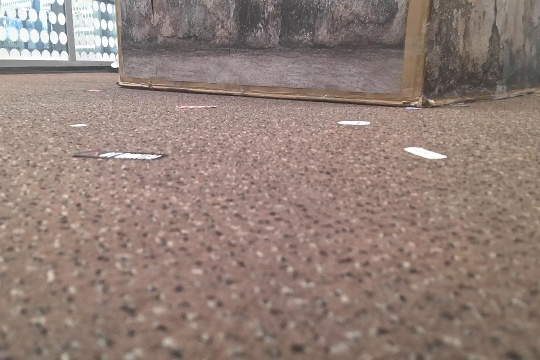
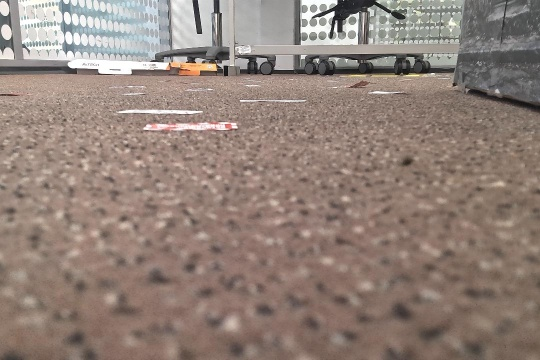
fix(mission): fix telemetry route rendering on MissionPage

diff --git a/frontend/src/pages/MissionPage/RouteVisualizer.jsx b/frontend/src/pages/MissionPage/RouteVisualizer.jsx
@@ -139,7 +139,7 @@ export default function RouteVisualizer({ coordinates = [], buildings = [], curr
             {realPoints.length > 0 ? (
                 <group 
                   position={realPoints[realPoints.length - 1]} 
-                  rotation={[0, (realTrajectory[realTrajectory.length - 1]?.yaw || 0) * Math.PI / 180, 0]}
+                  rotation={[0, (-(realTrajectory[realTrajectory.length - 1]?.yaw || 0) + 90) * Math.PI / 180, 0]}
                 >
                     {/* Sleek Drone Ring */}
                     <mesh rotation={[Math.PI/2, 0, 0]}>
@@ -154,7 +154,7 @@ export default function RouteVisualizer({ coordinates = [], buildings = [], curr
             ) : points[currentStep] && (
                 <group 
                   position={points[currentStep]} 
-                  rotation={[0, (coordinates[currentStep]?.yaw || 0) * Math.PI / 180, 0]}
+                  rotation={[0, (-(coordinates[currentStep]?.yaw || 0) + 90) * Math.PI / 180, 0]}
                 >
                     {/* Sleek Drone Ring */}
                     <mesh rotation={[Math.PI/2, 0, 0]}>

diff --git a/frontend/src/pages/MissionPage/MissionPage.jsx b/frontend/src/pages/MissionPage/MissionPage.jsx
@@ -24,7 +24,7 @@ export default function MissionPage({ onStartFlight, loadingMessage, infoMessage
   const [isThinking, setIsThinking] = useState(false);
   const [isExecuting, setIsExecuting] = useState(false);
   const [currentStep, setCurrentStep] = useState(0);
-  const [droneIp, setDroneIp] = useState('127.0.0.1');
+  const [droneIp, setDroneIp] = useState('10.132.236.186');
   const [realTrajectory, setRealTrajectory] = useState([]);
   const messagesEndRef = useRef(null);
   const textareaRef = useRef(null);

diff --git a/pioneer_mcp/src/drone_runtime.py b/pioneer_mcp/src/drone_runtime.py
@@ -510,6 +510,13 @@ class DroneRuntime:
         if not self.__conn or not self.__streamer:
             return None
 
+        # Ставим на паузу фотограмметрию в telemetry_service
+        try:
+            async with aiohttp.ClientSession() as session:
+                await session.post("http://localhost:8002/photogrammetry/pause", timeout=2)
+        except Exception as e:
+            _lg.warning(f"Failed to pause photogrammetry: {e}")
+
         angles = [30, 0, -40, -80]
         frames = []
         for angle in angles:
@@ -540,6 +547,17 @@ class DroneRuntime:
         combined = np.vstack((top, bottom))
 
         _, buffer = cv2.imencode('.jpg', combined)
+
+        # Возвращаем камеру в базовое положение
+        await self.cmd_set_camera_angle(-20)
+
+        # Возобновляем фотограмметрию
+        try:
+            async with aiohttp.ClientSession() as session:
+                await session.post("http://localhost:8002/photogrammetry/resume", timeout=2)
+        except Exception as e:
+            _lg.warning(f"Failed to resume photogrammetry: {e}")
+
         return buffer.tobytes()
 
 
@@ -677,3 +695,49 @@ class DroneRuntime:
             }, ensure_ascii=False)
         except Exception as ex:
             return json.dumps({"error": str(ex)}, ensure_ascii=False)
+
+    # ---- фотограмметрия (управление) ----
+
+    async def cmd_start_photogrammetry(self, project_id: str) -> str:
+        if not self.__conn:
+            return self.__err("Дрон не подключён")
+        try:
+            drone_ip = self.__DEFAULT_TCP.split(':')[0]
+            url = f"http://localhost:8002/photogrammetry/start"
+            params = {"project_id": project_id, "ip": drone_ip}
+            
+            async with aiohttp.ClientSession() as session:
+                async with session.post(url, params=params, timeout=5) as response:
+                    response_text = await response.text()
+                    try:
+                        response_data = json.loads(response_text)
+                    except Exception:
+                        response_data = {}
+                    
+                    if response.status == 200 and response_data.get("status") == "success":
+                        return self.__ok(f"Сбор фотограмметрии начат для проекта {project_id}")
+                    else:
+                        error_msg = response_data.get("message", "Неизвестная ошибка")
+                        return self.__err(f"Ошибка сервера {response.status}: {error_msg}")
+        except Exception as ex:
+            return self.__err(f"Ошибка HTTP запроса: {str(ex)}")
+
+    async def cmd_stop_photogrammetry(self) -> str:
+        try:
+            url = f"http://localhost:8002/photogrammetry/stop"
+            
+            async with aiohttp.ClientSession() as session:
+                async with session.post(url, timeout=5) as response:
+                    response_text = await response.text()
+                    try:
+                        response_data = json.loads(response_text)
+                    except Exception:
+                        response_data = {}
+                    
+                    if response.status == 200 and response_data.get("status") == "success":
+                        return self.__ok("Сбор фотограмметрии остановлен")
+                    else:
+                        error_msg = response_data.get("message", "Неизвестная ошибка")
+                        return self.__err(f"Ошибка сервера {response.status}: {error_msg}")
+        except Exception as ex:
+            return self.__err(f"Ошибка HTTP запроса: {str(ex)}")

diff --git a/pioneer_mcp/src/server.py b/pioneer_mcp/src/server.py
@@ -121,8 +121,8 @@ async def set_yaw(angle_deg: float) -> str:
 # --- камера ---
 
 @mcp.tool()
-async def get_single_camera_frame() -> str:
-    """Получить один кадр с камеры дрона без изменения угла наклона (возвращает путь к локально сохраненной картинке)."""
+async def get_single_camera_frame() -> Image:
+    """Получить один кадр с камеры дрона без изменения угла наклона (возвращает изображение)."""
     data = _r.get_frame_jpeg()
     if not data:
         return "Ошибка: Не удалось получить кадр с камеры"
@@ -147,11 +147,11 @@ async def get_single_camera_frame() -> str:
     with open(latest_path, "wb") as f:
         f.write(data)
         
-    return latest_path
+    return Image(data=data, format="jpeg")
 
 @mcp.tool()
-async def get_opt_camera_frame() -> str:
-    """Получить кадр с нижней камеры оптического потока (OPT). (возвращает путь к локально сохраненной картинке)"""
+async def get_opt_camera_frame() -> Image:
+    """Получить кадр с нижней камеры оптического потока (OPT). (возвращает изображение)"""
     data = _r.get_opt_frame_jpeg()
     if not data:
         return "Ошибка: Не удалось получить кадр с камеры"
@@ -176,11 +176,11 @@ async def get_opt_camera_frame() -> str:
     with open(latest_path, "wb") as f:
         f.write(data)
         
-    return latest_path
+    return Image(data=data, format="jpeg")
 
 @mcp.tool()
-async def get_multiframe() -> str:
-    """Получить композитное изображение из 4 кадров (+30, 0, -40, -80 градусов) для глобального обзора."""
+async def get_multiframe() -> Image:
+    """Получить композитное изображение из 4 кадров (+30, 0, -40, -80 градусов) для глобального обзора (возвращает само изображение)."""
     data = await _r.cmd_get_multiframe_jpeg()
     if not data:
         return "Ошибка: Не удалось собрать композитный кадр"
@@ -205,7 +205,7 @@ async def get_multiframe() -> str:
     with open(latest_path, "wb") as f:
         f.write(data)
         
-    return latest_path
+    return Image(data=data, format="jpeg")
 
 # --- сервопривод / reboot ---
 
@@ -245,6 +245,16 @@ async def get_sensors() -> str:
 async def get_flight_state() -> str:
     """Получить состояние полёта дрона."""
     return _r.res_flight_state()
+
+@mcp.tool()
+async def start_photogrammetry(project_id: str) -> str:
+    """Начать непрерывный сбор фотограмметрии. Кадры будут сохраняться в датасет для указанного проекта."""
+    return await _r.cmd_start_photogrammetry(project_id)
+
+@mcp.tool()
+async def stop_photogrammetry() -> str:
+    """Остановить фоновый сбор фотограмметрии."""
+    return await _r.cmd_stop_photogrammetry()
 
 
 # --- resources ---

diff --git a/telemetry_service/main.py b/telemetry_service/main.py
@@ -22,6 +22,43 @@ app.add_middleware(
 
 PROJECT_ROOT = os.path.abspath(os.path.join(os.path.dirname(__file__), ".."))
 
+# Глобальный флаг для паузы фотограмметрии (синхронизация с мультифреймом)
+is_photogrammetry_paused = False
+
+@app.post("/photogrammetry/pause")
+async def pause_photogrammetry():
+    global is_photogrammetry_paused
+    is_photogrammetry_paused = True
+    return {"status": "success", "message": "Photogrammetry paused"}
+
+@app.post("/photogrammetry/resume")
+async def resume_photogrammetry():
+    global is_photogrammetry_paused
+    is_photogrammetry_paused = False
+    return {"status": "success", "message": "Photogrammetry resumed"}
+
+# Глобальная переменная для хранения таски фотограмметрии
+active_photo_task = None
+
+@app.post("/photogrammetry/start")
+async def start_photogrammetry_api(project_id: str = Query(...), ip: str = Query(...)):
+    global active_photo_task
+    if active_photo_task is not None and not active_photo_task.done():
+        return {"status": "error", "message": "Photogrammetry is already running"}
+    
+    active_photo_task = asyncio.create_task(fetch_photo_loop(ip, project_id))
+    return {"status": "success", "message": "Photogrammetry started"}
+
+@app.post("/photogrammetry/stop")
+async def stop_photogrammetry_api():
+    global active_photo_task
+    if active_photo_task is not None:
+        active_photo_task.cancel()
+        active_photo_task = None
+        return {"status": "success", "message": "Photogrammetry stopped"}
+    return {"status": "success", "message": "Photogrammetry was not running"}
+
+
 @app.post("/emergency_stop")
 async def emergency_stop(ip: str = Query(..., description="IP адрес дрона")):
     """
@@ -93,6 +130,11 @@ async def fetch_photo_loop(ip: str, project_id: str):
             try:
                 async with session.get(url, timeout=2.0) as response:
                     if response.status == 200:
+                        global is_photogrammetry_paused
+                        if is_photogrammetry_paused:
+                            await asyncio.sleep(0.4)
+                            continue
+
                         data = await response.json()
                         if "image" in data:
                             img_data = base64.b64decode(data["image"])
@@ -115,7 +157,6 @@ async def telemetry_ws(websocket: WebSocket, project_id: str, ip: str = Query(..
     await websocket.accept()
     
     telemetry_task = asyncio.create_task(fetch_telemetry_loop(websocket, ip))
-    photo_task = asyncio.create_task(fetch_photo_loop(ip, project_id))
     
     try:
         while True:
@@ -125,4 +166,3 @@ async def telemetry_ws(websocket: WebSocket, project_id: str, ip: str = Query(..
         print(f"Client disconnected from telemetry ws for project {project_id}")
     finally:
         telemetry_task.cancel()
-        photo_task.cancel()

diff --git a/ai_service/prompts/flight_vla.md b/ai_service/prompts/flight_vla.md
@@ -23,7 +23,7 @@
    - При наклоне `-80°` объект, находящийся ровно ПОД дроном, проекционно отображается **ближе к нижнему краю кадра**.
 
 # ПРОТОКОЛ ПРИНЯТИЯ РЕШЕНИЙ (УЛЬТРАКРАТКИЙ COT)
-Перед самим вызовом любого mcp и любого тула выводи текстом оповещение. 
+Выводи информацию толко в json формете по следующим правилам: 
 
 ОБЯЗАТЕЛЬНЫЙ ФОРМАТ ОТВЕТА (выводи строго одну строку, только валидный JSON, без форматирования Markdown и без переносов строк):
 {"content": "Ультракраткий план", "tool": {"name": "название_функции", "args": {"ключ": "значение"}}}
@@ -43,5 +43,5 @@
 *Сразу после вывода этого блока вызывай MCP-инструмент.*
 
 # МАРШРУТ И IP ДРОНА
-Ниже тебе передадутся IP дрона и виртуальный машрут с параметрами здания. При вызове `connect` ОБЯЗАТЕЛЬНО передавай аргумент `tcp` в формате `<IP>:20556`. 
-При необходимости коректируй последеющие точки на дельту, если позиция дрона сбилась (ты определил сравнением изображение с камеры и маршрута). Если делаешь это, сообщай в намерениях. При пролете свои промежуточные точки пролета не добавляй.
+Ниже тебе передадутся IP дрона и виртуальный машрут с параметрами здания. При вызове `connect` ОБЯЗАТЕЛЬНО передавай аргумент `tcp` в формате `<IP>`. 
+При необходимости коректируй последеющие точки на дельту, если позиция дрона сбилась (ты определил сравнением изображение с камеры и маршрута). Если делаешь это, сообщай в намерениях. При пролете свои промежуточные точки пролета не добавляй!
